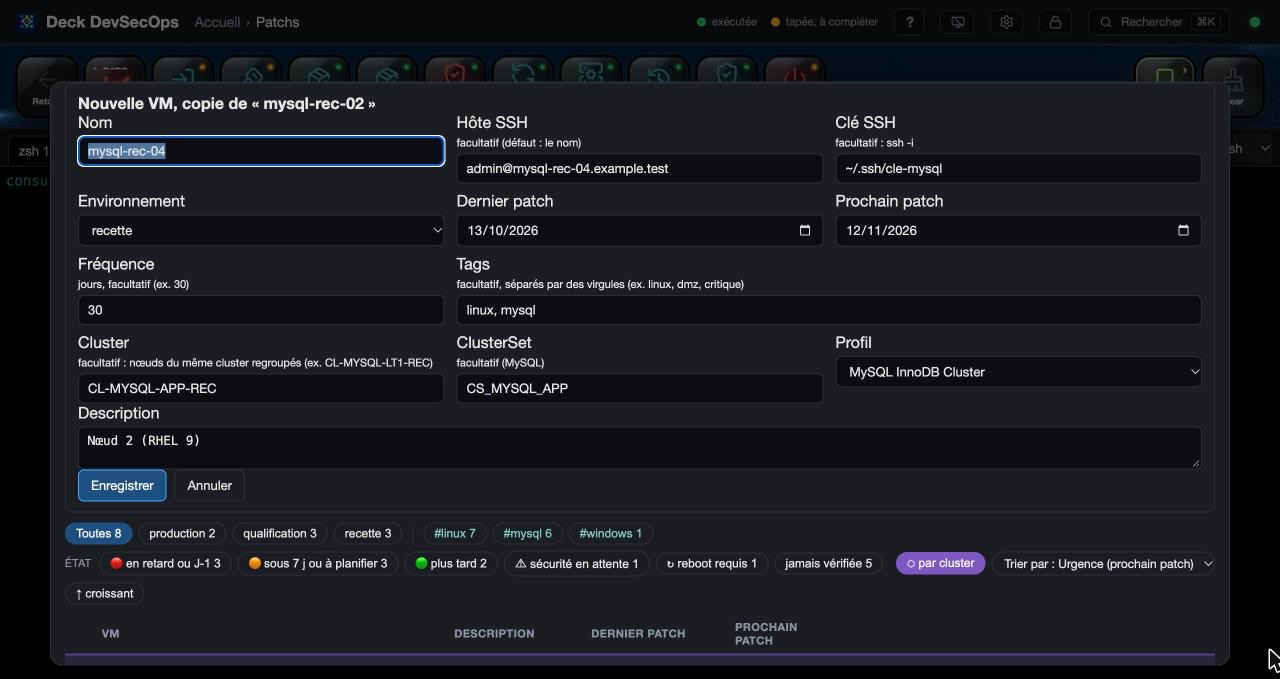
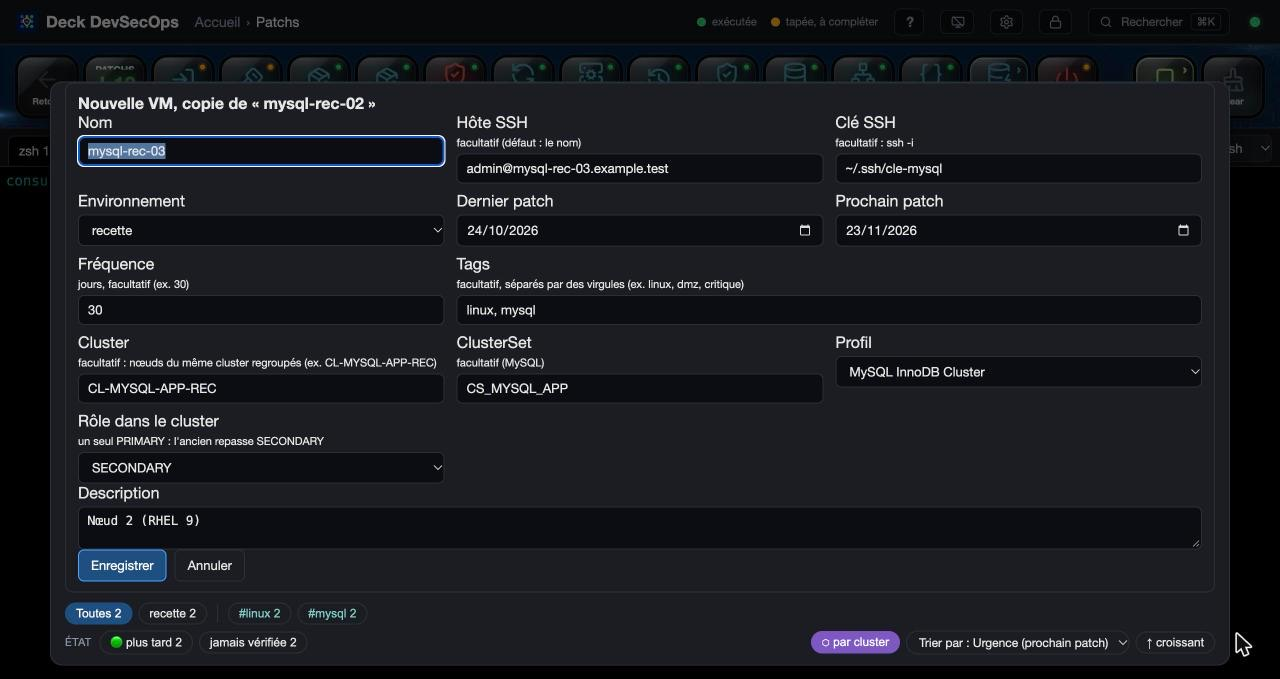
Exemples génériques : plus de noms propres à une mission dans le formulaire, le code et les tests
- Champs Cluster / ClusterSet : exemples CL-MYSQL-APP-REC et CS_MYSQL_APP
- Commentaire de server/patches.mjs et données des tests des clusters génériques
- Capture du formulaire d'une VM refaite

diff --git a/public/index.html b/public/index.html
@@ -664,8 +664,8 @@
                     <label>Prochain patch <input id="patch-next" type="date"></label>
                     <label>Fréquence <span class="hint">jours, facultatif (ex. 30)</span> <input id="patch-every" type="number" min="1" max="730" step="1"></label>
                     <label class="patch-tags-field">Tags <span class="hint">facultatif, séparés par des virgules (ex. linux, dmz, critique)</span> <input id="patch-tags" type="text" maxlength="260" list="patch-tag-list" spellcheck="false"><datalist id="patch-tag-list"></datalist></label>
-                    <label>Cluster <span class="hint">facultatif : nœuds du même cluster regroupés (ex. CL-MYSQL-LT1-REC)</span> <input id="patch-cluster" type="text" maxlength="60" list="patch-cluster-list" spellcheck="false" placeholder="CL-MYSQL-LT1-REC"><datalist id="patch-cluster-list"></datalist></label>
-                    <label>ClusterSet <span class="hint">facultatif (MySQL)</span> <input id="patch-clusterset" type="text" maxlength="60" list="patch-clusterset-list" spellcheck="false" placeholder="CS_MYSQL_LT1"><datalist id="patch-clusterset-list"></datalist></label>
+                    <label>Cluster <span class="hint">facultatif : nœuds du même cluster regroupés (ex. CL-MYSQL-APP-REC)</span> <input id="patch-cluster" type="text" maxlength="60" list="patch-cluster-list" spellcheck="false" placeholder="CL-MYSQL-APP-REC"><datalist id="patch-cluster-list"></datalist></label>
+                    <label>ClusterSet <span class="hint">facultatif (MySQL)</span> <input id="patch-clusterset" type="text" maxlength="60" list="patch-clusterset-list" spellcheck="false" placeholder="CS_MYSQL_APP"><datalist id="patch-clusterset-list"></datalist></label>
                     <label>Profil
                         <select id="patch-profile">
                             <option value="">standard</option>
